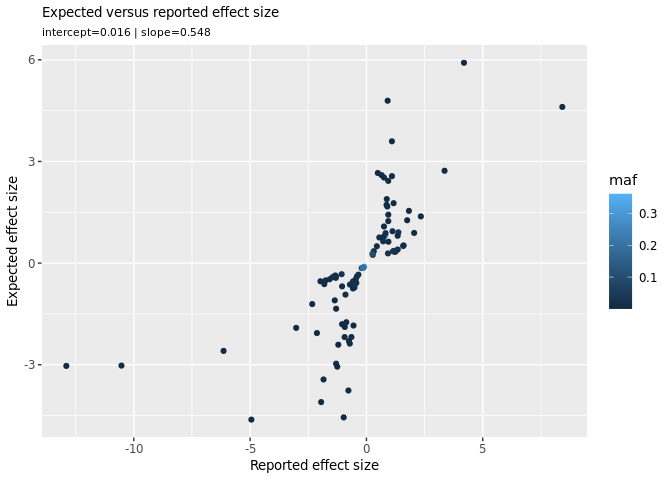
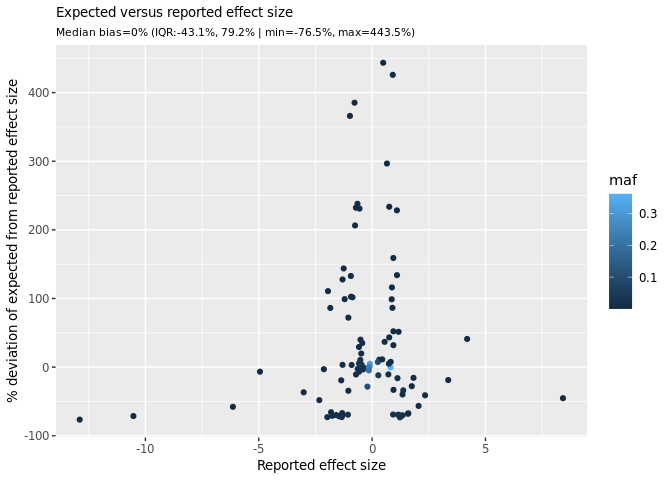
update readme

diff --git a/README.md b/README.md
@@ -229,6 +229,8 @@ Plot2<-make_plot_gwas_catalog(dat=Dat,efo_id=EFO$efo_id,trait="Plasma omega-6 po
 Plot2
 ```
 
+<img src="man/figures/README-arachidonic3-1.png" width="100%" />
+
 Most SNPs appear to have concordant effect sizes between the test dataset and the GWAS catalog. Although there are a few SNPs with effect sizes in opposite directions, the Z scores for these SNPs are small and therefore compatible with chance deviations. This suggests that the reported effect allele is correct.
 
 ## Step 4. Check for errors in the reported effect sizes in the arachidonic acid GWAS
@@ -240,6 +242,7 @@ File<-system.file("extdata", "ara_test_dat.txt", package = "CheckSumStats")
 ara<-extract_sig_snps(path_to_target_file=File,p_val_col_number=7)
 Dat<-format_data(dat=ara,outcome="arachidonic acid",population="European",pmid=24823311,study="CHARGE",ncontrol="n",UKbiobank=FALSE,rsid="snp",effect_allele="effect_allele",other_allele="other_allele",beta="beta",se="se",eaf="effect_allele_freq",p="p")
 dim(Dat)
+#> [1] 1064   19
 ```
 
 1064 SNPs were extracted. Its useful to clump the results to ensure independence and for speed. We call the ieugwasr package to perform the clumping.
@@ -247,6 +250,18 @@ dim(Dat)
 ``` r
 
 Clump<-ieugwasr::ld_clump(clump_r2 = 0.01,clump_p=1e-8,dplyr::tibble(rsid=Dat$rsid, pval=Dat$p, id=Dat$id),pop="EUR")
+#> API: public: http://gwas-api.mrcieu.ac.uk/
+#> Please look at vignettes for options on running this locally if you need to run many instances of this command.
+#> Using access token. For info on how this is used see logging_info()
+#> ℹ 2021-08-20 14:40:39 > Setting client.id from options(googleAuthR.client_id)
+#> → Using an auto-discovered, cached token
+#>   To suppress this message, modify your code or options to clearly consent to
+#>   the use of a cached token
+#>   See gargle's "Non-interactive auth" vignette for more details:
+#>   <https://gargle.r-lib.org/articles/non-interactive-auth.html>
+#> → The googleAuthR package is using a cached token for 'philip.haycock@gmail.com'
+#> Clumping , 1064 variants, using EUR population reference
+#> Removing 969 of 1064 variants due to LD with other variants or absence from LD reference panel
 Dat<-Dat[Dat$rsid %in% Clump$rsid,]
 ```
 
@@ -258,6 +273,8 @@ Plot3<-make_plot_pred_effect(dat=Dat,pred_beta = "beta_sd",pred_beta_se="se_sd",
 Plot3
 ```
 
+<img src="man/figures/README-arachidonic6-1.png" width="100%" />
+
 We see a slope of 0.548 and non-linear correlation pattern, indicating that the SNPs have unusual effect sizes. This patterm of results is compatible with the presence of potential false positives in the test dataset, which in turn may reflect problems with the post-GWAS cleaning of the summary statistics. We can also plot the relative bias - the relative deviation of the reported from the expected effect sizes.
 
 ``` r
@@ -265,15 +282,46 @@ Plot4<-make_plot_pred_effect(dat=Dat,pred_beta = "beta_sd",pred_beta_se="se_sd",
 Plot4
 ```
 
+<img src="man/figures/README-arachidonic7-1.png" width="100%" />
+
 The SNPs with the most bias tend to have lower minor allele frequencies, confirming possible problems with the post-GWAS cleaning of the results file. Next, we check how many of the top hits for arachidonic acid in the test dataset are present in the GWAS catalog.
 
 ``` r
 gc_list<-find_hits_in_gwas_catalog(gwas_hits=Dat$rsid,efo_id=EFO$efo_id,trait="Plasma omega-6 polyunsaturated fatty acid levels (arachidonic acid)",distance_threshold=50000) 
+#> Using GRCh38.p13 of human genome from ensembl for genomic coordinates
+#> Using GRCh38.p13 of human genome from ensembl for genomic coordinates
 gc_list
+#> $not_in_gc
+#>  [1] "rs10026364" "rs10488885" "rs10819512" "rs10938476" "rs10986188"
+#>  [6] "rs11726352" "rs12238732" "rs12416578" "rs12456907" "rs12639648"
+#> [11] "rs12888839" "rs12894905" "rs12955978" "rs13128117" "rs13268288"
+#> [16] "rs13381393" "rs16940996" "rs16943026" "rs16951711" "rs16974991"
+#> [21] "rs17060495" "rs17568699" "rs1887892"  "rs2192242"  "rs2826490" 
+#> [26] "rs3088245"  "rs340480"   "rs4359352"  "rs4818759"  "rs7080747" 
+#> [31] "rs7093714"  "rs7226534"  "rs7231821"  "rs727887"   "rs7292052" 
+#> [36] "rs7456249"  "rs7690731"  "rs7778698"  "rs7904736"  "rs12747494"
+#> [41] "rs10788947" "rs10798816" "rs957129"   "rs11578575" "rs7546429" 
+#> [46] "rs12037648" "rs6658106"  "rs12623171" "rs6750701"  "rs13386900"
+#> [51] "rs13314643" "rs13325952" "rs16851412" "rs11917725" "rs17077488"
+#> [56] "rs11958171" "rs279412"   "rs5745104"  "rs13178241" "rs10040997"
+#> [61] "rs1432985"  "rs781980"   "rs9275354"  "rs13191761" "rs9356335" 
+#> [66] "rs12523734" "rs6456902"  "rs11752402" "rs2294281"  "rs9375065" 
+#> [71] "rs12285167" "rs487023"   "rs7933136"  "rs2903922"  "rs930786"  
+#> [76] "rs760306"   "rs11824358" "rs890455"   "rs10830946" "rs259874"  
+#> [81] "rs11833369" "rs7970058"  "rs4931549"  "rs11147144" "rs7137292" 
+#> [86] "rs12297743" "rs11107024" "rs2653765"  "rs16959795" "rs16985879"
+#> [91] "rs4614987"  "rs6060682" 
+#> 
+#> $in_gc
+#> [1] "rs174528" "rs472031" "rs1741"
 
 Plot5<-make_plot_gwas_catalog(dat=Dat,efo_id=EFO$efo_id,trait="Plasma omega-6 polyunsaturated fatty acid levels (arachidonic acid)",force_all_trait_study_hits=TRUE,beta="beta",se="se")
+#> Using GRCh38.p13 of human genome from ensembl for genomic coordinates
+#> Using GRCh38.p13 of human genome from ensembl for genomic coordinates
 Plot5
 ```
+
+<img src="man/figures/README-arachidonic8-1.png" width="100%" />
 
 92 of 95 top hits in the test dataset do not overlap with associations for arachidonic acid in the GWAS catalog. Taken together with the non-linear relationship between the expected and reported effect sizes, this suggests a large number of false positives, which in turn may reflect problems with the post-GWAS cleaning of the summary statistics. Correspondence with the data provider confirmed that the GWAS summary statistics had not gone through post GWAS filtering of low quality variants (e.g. exclusion of SNPs with low minor allele frequency or low imputation r2 scores). Once we obtained a cleaned dataset (with low quality SNPs excluded), the aforementioned discrepancies were resolved.
 
@@ -286,7 +334,7 @@ Plot6<-zz_plot(dat=Dat,beta="beta",se="se")
 Plot6
 ```
 
-We see a very close concordance between the reported P-values and reported effect sizes.
+<img src="man/figures/README-arachidonic9-1.png" width="100%" /> We see a very close concordance between the reported P-values and reported effect sizes.
 
 ## Step 6. Combine all plots into a single report (arachidonic acid example)
 
